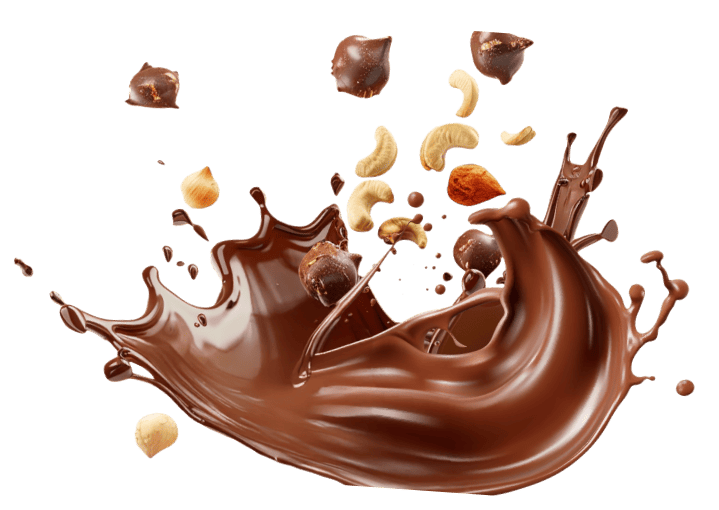
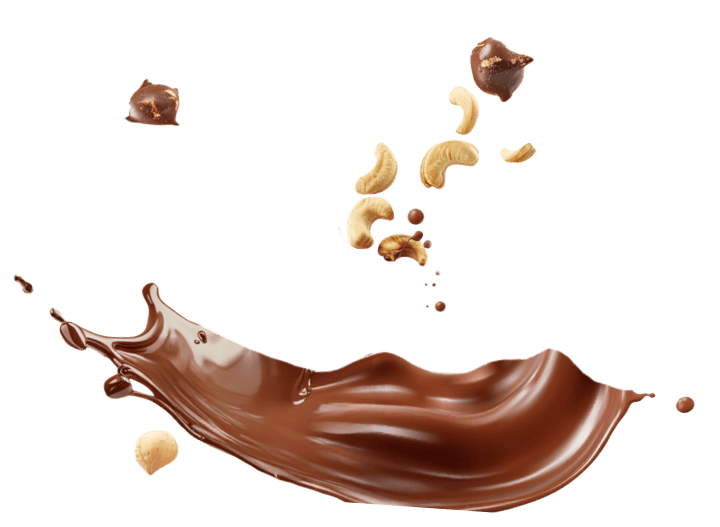
fix: part 2 product 9 background

diff --git a/_layouts/product.html b/_layouts/product.html
@@ -111,7 +111,7 @@ layout: default
                 {% if page.uniclass == 'product-6' %}<img src="/assets/images/products/product-6/animation/decor-1.png" alt="decor" class="section-product__img__decor section-product__img__decor--1"><img src="/assets/images/products/product-6/animation/decor-2.png" alt="decor" class="section-product__img__decor section-product__img__decor--2"><img src="/assets/images/products/product-6/animation/decor-3.png" alt="decor" class="section-product__img__decor section-product__img__decor--3"><img src="/assets/images/products/product-6/animation/decor-4.png" alt="decor" class="section-product__img__decor section-product__img__decor--4"><img src="/assets/images/products/product-6/animation/decor-5.png" alt="decor" class="section-product__img__decor section-product__img__decor--5"><img src="/assets/images/products/product-6/animation/decor-6.png" alt="decor" class="section-product__img__decor section-product__img__decor--6"><img src="/assets/images/products/product-6/animation/decor-7.png" alt="decor" class="section-product__img__decor section-product__img__decor--7"><img src="/assets/images/products/product-6/animation/cloud-1.png" alt="decor" class="section-product__img__cloud section-product__img__cloud--1">{% endif %}
                 {% if page.uniclass == 'product-7' %}<img src="/assets/images/products/product-7/animation/decor-1.png" alt="decor" class="section-product__img__decor section-product__img__decor--1"><img src="/assets/images/products/product-7/animation/decor-2.png" alt="decor" class="section-product__img__decor section-product__img__decor--2"><img src="/assets/images/products/product-7/animation/decor-3.png" alt="decor" class="section-product__img__decor section-product__img__decor--3"><img src="/assets/images/products/product-7/animation/decor-4.png" alt="decor" class="section-product__img__decor section-product__img__decor--4"><img src="/assets/images/products/product-7/animation/decor-5.png" alt="decor" class="section-product__img__decor section-product__img__decor--5"><img src="/assets/images/products/product-7/animation/decor-6.png" alt="decor" class="section-product__img__decor section-product__img__decor--6"><img src="/assets/images/products/product-7/animation/decor-7.png" alt="decor" class="section-product__img__decor section-product__img__decor--7"><img src="/assets/images/products/product-7/animation/decor-8.png" alt="decor" class="section-product__img__decor section-product__img__decor--8"><img src="/assets/images/products/product-7/animation/decor-9.png" alt="decor" class="section-product__img__decor section-product__img__decor--9"><img src="/assets/images/products/product-7/animation/decor-10.png" alt="decor" class="section-product__img__decor section-product__img__decor--10"><img src="/assets/images/products/product-7/animation/cloud-1.png" alt="decor" class="section-product__img__cloud section-product__img__cloud--1">{% endif %}
                 {% if page.uniclass == 'product-8' %}<img src="/assets/images/products/product-8/animation/decor-1.png" alt="decor" class="section-product__img__decor section-product__img__decor--1"><img src="/assets/images/products/product-8/animation/decor-2.png" alt="decor" class="section-product__img__decor section-product__img__decor--2"><img src="/assets/images/products/product-8/animation/decor-3.png" alt="decor" class="section-product__img__decor section-product__img__decor--3"><img src="/assets/images/products/product-8/animation/decor-4.png" alt="decor" class="section-product__img__decor section-product__img__decor--4"><img src="/assets/images/products/product-8/animation/decor-5.png" alt="decor" class="section-product__img__decor section-product__img__decor--5"><img src="/assets/images/products/product-8/animation/decor-6.png" alt="decor" class="section-product__img__decor section-product__img__decor--6"><img src="/assets/images/products/product-8/animation/decor-7.png" alt="decor" class="section-product__img__decor section-product__img__decor--7"><img src="/assets/images/products/product-8/animation/decor-8.png" alt="decor" class="section-product__img__decor section-product__img__decor--8"><img src="/assets/images/products/product-8/animation/decor-9.png" alt="decor" class="section-product__img__decor section-product__img__decor--9"><img src="/assets/images/products/product-8/animation/cloud-1.png" alt="decor" class="section-product__img__cloud section-product__img__cloud--1">{% endif %}
-                {% if page.uniclass == 'product-9' %}<img src="/assets/images/products/product-9/animation/decor-1.png" alt="decor" class="section-product__img__decor section-product__img__decor--1"><img src="/assets/images/products/product-9/animation/decor-2.png" alt="decor" class="section-product__img__decor section-product__img__decor--2"><img src="/assets/images/products/product-9/animation/decor-3.png" alt="decor" class="section-product__img__decor section-product__img__decor--3"><img src="/assets/images/products/product-9/animation/decor-4.png" alt="decor" class="section-product__img__decor section-product__img__decor--4"><img src="/assets/images/products/product-9/animation/decor-5.png" alt="decor" class="section-product__img__decor section-product__img__decor--5"><img src="/assets/images/products/product-9/animation/decor-6.png" alt="decor" class="section-product__img__decor section-product__img__decor--6"><img src="/assets/images/products/product-9/animation/decor-7.png" alt="decor" class="section-product__img__decor section-product__img__decor--7"><img src="/assets/images/products/product-9/animation/back-1.png" alt="" class="section-product__img__product section-product__img__product--2"><img src="/assets/images/products/product-9/animation/cloud-1.png" alt="decor" class="section-product__img__cloud section-product__img__cloud--1">{% endif %}
+                {% if page.uniclass == 'product-9' %}<img src="/assets/images/products/product-9/animation/decor-1.png" alt="decor" class="section-product__img__decor section-product__img__decor--1"><img src="/assets/images/products/product-9/animation/decor-2.png" alt="decor" class="section-product__img__decor section-product__img__decor--2"><img src="/assets/images/products/product-9/animation/decor-3.png" alt="decor" class="section-product__img__decor section-product__img__decor--3"><img src="/assets/images/products/product-9/animation/decor-4.png" alt="decor" class="section-product__img__decor section-product__img__decor--4"><img src="/assets/images/products/product-9/animation/decor-5.png" alt="decor" class="section-product__img__decor section-product__img__decor--5"><img src="/assets/images/products/product-9/animation/decor-6.png" alt="decor" class="section-product__img__decor section-product__img__decor--6"><img src="/assets/images/products/product-9/animation/decor-7.png" alt="decor" class="section-product__img__decor section-product__img__decor--7"><img src="/assets/images/products/product-9/animation/decor-8.png" alt="decor" class="section-product__img__decor section-product__img__decor--8"><img src="/assets/images/products/product-9/animation/back-1.png" alt="" class="section-product__img__product section-product__img__product--2"><img src="/assets/images/products/product-9/animation/cloud-1.png" alt="decor" class="section-product__img__cloud section-product__img__cloud--1">{% endif %}
                 {% if page.uniclass == 'product-10' %}<img src="/assets/images/products/product-10/animation/decor-1.png" alt="decor" class="section-product__img__decor section-product__img__decor--1"><img src="/assets/images/products/product-10/animation/decor-2.png" alt="decor" class="section-product__img__decor section-product__img__decor--2"><img src="/assets/images/products/product-10/animation/decor-3.png" alt="decor" class="section-product__img__decor section-product__img__decor--3"><img src="/assets/images/products/product-10/animation/decor-4.png" alt="decor" class="section-product__img__decor section-product__img__decor--4"><img src="/assets/images/products/product-10/animation/decor-5.png" alt="decor" class="section-product__img__decor section-product__img__decor--5"><img src="/assets/images/products/product-10/animation/decor-6.png" alt="decor" class="section-product__img__decor section-product__img__decor--6"><img src="/assets/images/products/product-10/animation/decor-7.png" alt="decor" class="section-product__img__decor section-product__img__decor--7"><img src="/assets/images/products/product-10/animation/decor-8.png" alt="decor" class="section-product__img__decor section-product__img__decor--8"><img src="/assets/images/products/product-10/animation/cloud-1.png" alt="decor" class="section-product__img__cloud section-product__img__cloud--1">{% endif %}
                 
                 <div class="section-product__splider-img swiper">
